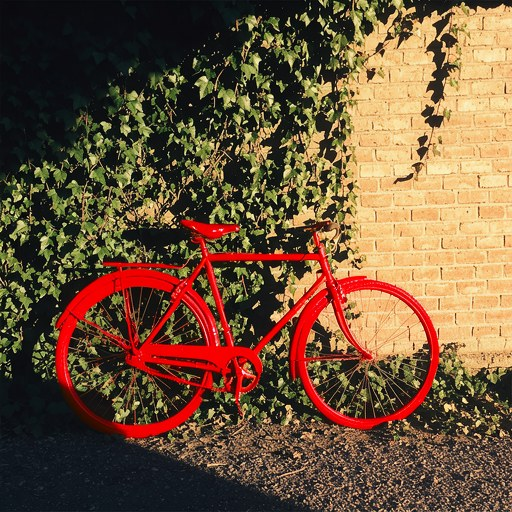
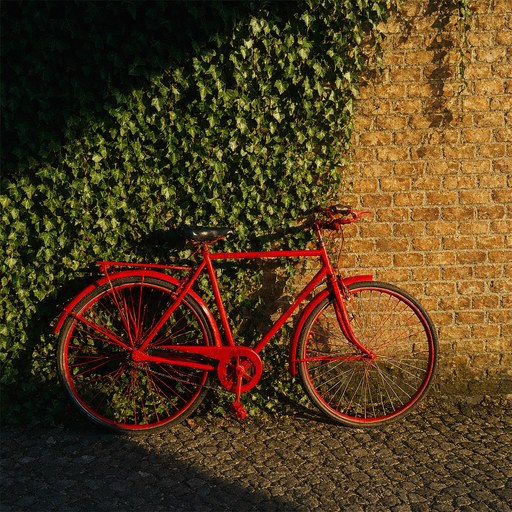
Default to LoRA strength 0.25 and 1024px references
The References node defaults to reference_max_edge 1024, and all four
workflows use LoRA strength 0.25 with 1024px references. Two-image edits
need a higher strength (at 0.25 the output is just image 2), so the
two-image workflows say so in their notes and on the LoRA node, and the
README documents it. Single-image thumbnails show the new defaults.

diff --git a/nodes.py b/nodes.py
@@ -53,9 +53,9 @@ class MOSSImageEditReferences(io.ComfyNode):
                     ),
                     tooltip="References in order. Each batch item counts as a reference of its own.",
                 ),
-                io.Int.Input("reference_max_edge", default=512, min=GRID, max=4096, step=GRID,
+                io.Int.Input("reference_max_edge", default=1024, min=GRID, max=4096, step=GRID,
                              tooltip="Longest side of each reference in pixels; smaller images are not upscaled. Sides round to multiples of 16, "
-                                     "without cropping. The LoRA was trained and published with 512."),
+                                     "without cropping. The LoRA was published with 512; 1024 keeps more detail of the input."),
                 io.Combo.Input("kv_cache", options=list(KV_CACHE_MODES), default="auto",
                                tooltip="The references don't depend on the step or the prompt. on: run them once per sampling run and keep "
                                        "their keys/values, about twice as fast (0.5 MB per reference token in bf16: 0.5 GB for a 512px "
@@ -71,7 +71,7 @@ class MOSSImageEditReferences(io.ComfyNode):
         )
 
     @classmethod
-    def execute(cls, positive, negative, vae, images: io.Autogrow.Type, reference_max_edge=512, kv_cache="auto") -> io.NodeOutput:
+    def execute(cls, positive, negative, vae, images: io.Autogrow.Type, reference_max_edge=1024, kv_cache="auto") -> io.NodeOutput:
         items = []
         for name in sorted(images or {}, key=lambda name: int(name.rsplit("_", 1)[-1])):
             if images[name] is not None:
